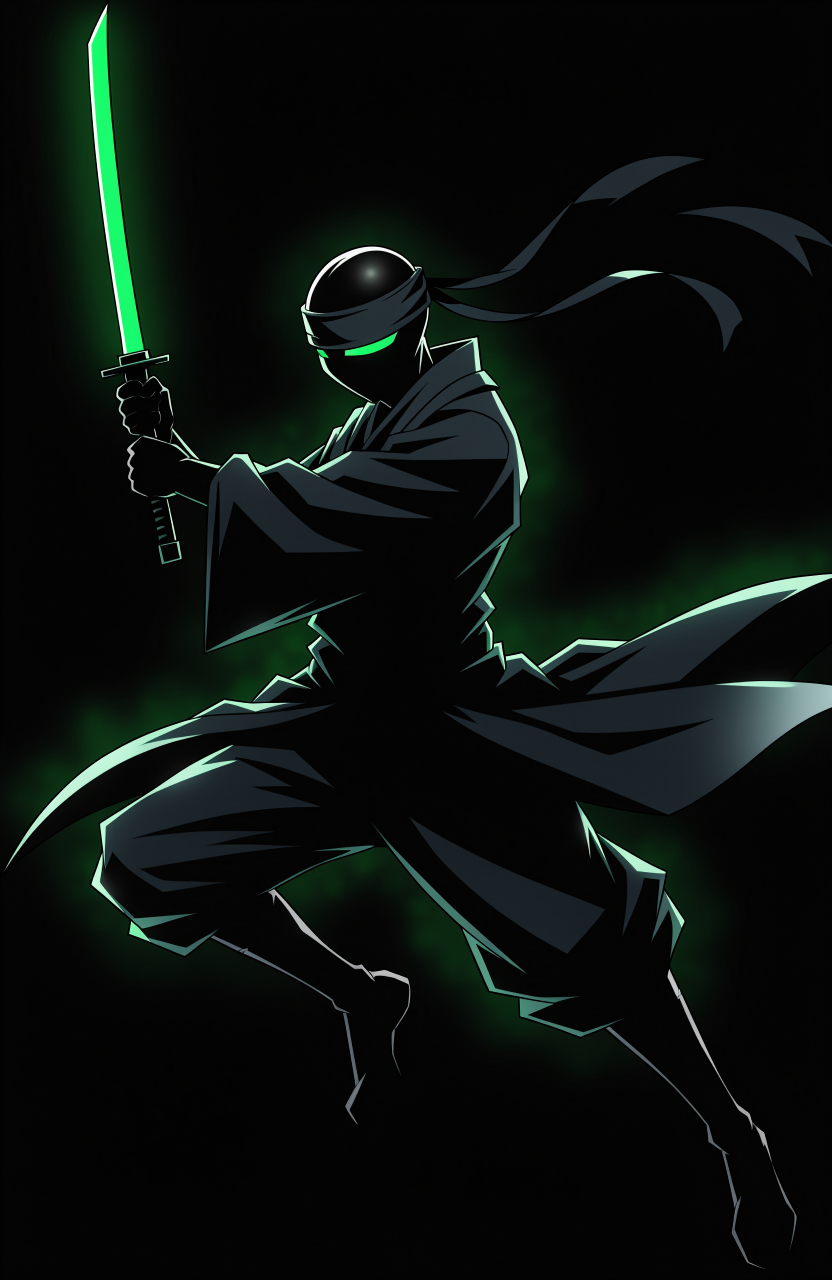
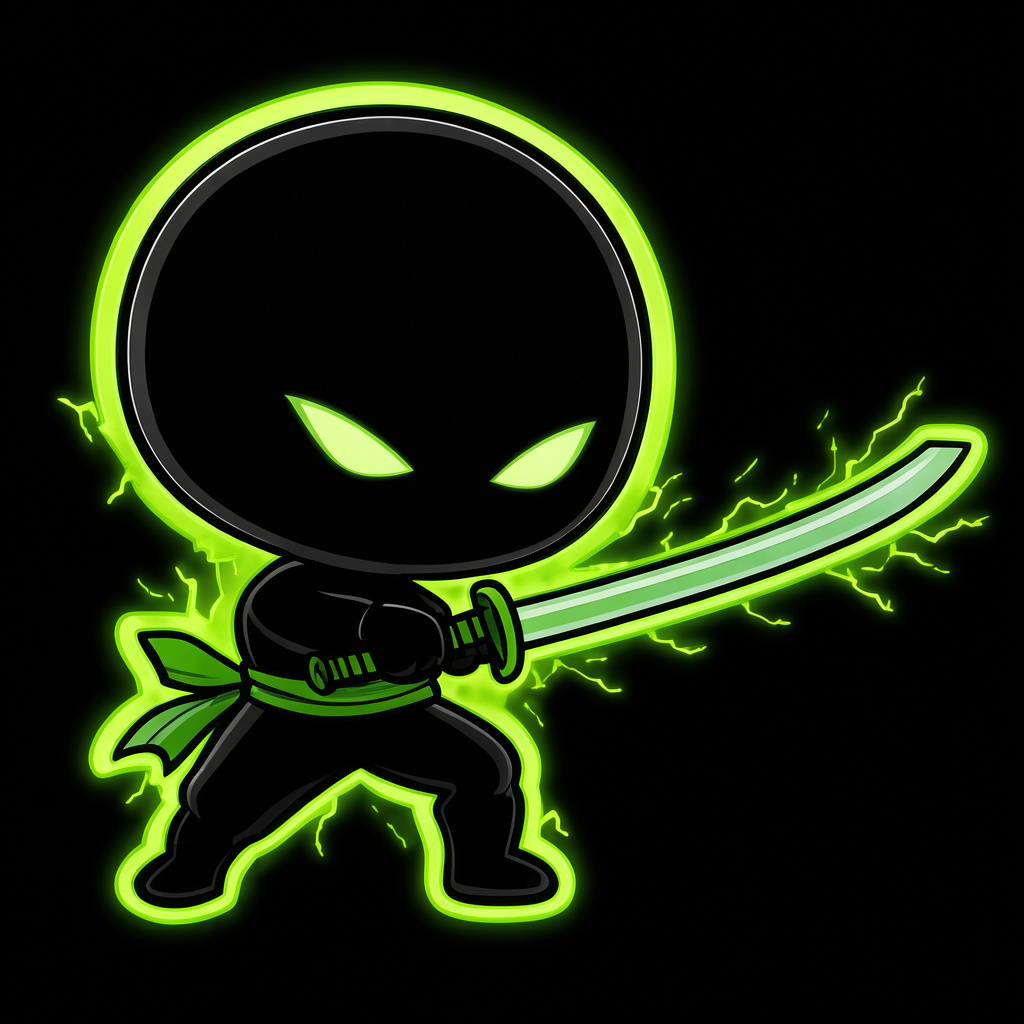
vs: sticker-man style per reference - chibi puppets, remove realistic dash/recoil
- New puppets: ninja-sensei-1/2 regenerated as sticker-man chibi (huge round head, glowing eye slits, neon-green outline + electric aura, katana baked in) matching reference sheet; sticker-hero-vs.jpg as reference hero fallback
- Deleted ninja-dash.png / ninja-recoil.png (realistic style clash) + their templates, SPRITES morph, setFighterSprite swap and is-morphing CSS
- Fixed mirror: new sprites already face each other (sensei-1 right, sensei-2 left) - removed scaleX(-1) on left fighter (3 places)
- Removed studio-tier depth-fog + anamorphic; kept neon slash trail canvas + shockwave (fits sticker glow)
- Chibi idle: squash-stretch breathing; ASSETS + route serve sticker-hero-vs.jpg

diff --git a/src/web/dojo/style.css b/src/web/dojo/style.css
@@ -5628,7 +5628,7 @@ html.motion-reduced .vs-comic.is-striking { animation: none; }
   mix-blend-mode: screen; user-select: none;
   filter: drop-shadow(0 14px 16px rgba(0, 18, 8, .65)) drop-shadow(0 0 26px rgba(53, 255, 133, .34));
 }
-.vs-fighter.left .vs-ninja { transform: scaleX(-1); }
+.vs-fighter.left .vs-ninja { /* sticker sprite already faces right — no mirror */ }
 .vs-fighter::before { /* energy aura */
   content: ''; position: absolute; inset: -18% -10% 0; z-index: 0;
   background: radial-gradient(ellipse at 50% 72%, #35ff8530, transparent 62%);
@@ -5643,7 +5643,7 @@ html.motion-reduced .vs-comic.is-striking { animation: none; }
 }
 .vs-fighter:not([data-pose]) .vs-ninja { animation: vs-breath 3.1s ease-in-out infinite alternate; }
 .vs-fighter.right:not([data-pose]) .vs-ninja { animation-delay: -1.55s; }
-@keyframes vs-breath { from { translate: 0 0; } to { translate: 0 -4px; } }
+@keyframes vs-breath { 0%,100% { translate: 0 0; scale: 1 1; } 50% { translate: 0 -5px; scale: 1.015 .985; } }
 html.motion-reduced .vs-fighter .vs-ninja { animation: none; }
 @media (prefers-reduced-motion: reduce) { .vs-fighter .vs-ninja { animation: none; } }
 
@@ -5932,7 +5932,7 @@ html.motion-reduced .vs-petals { display: none; }
   border-radius: 50% 50% 12% 12% / 8% 8% 92% 92%;
   background: radial-gradient(ellipse at 50% 80%, rgba(53,255,133,.18), transparent 62%);
 }
-.vs-fighter.left .vs-ninja { transform: scaleX(-1); }
+.vs-fighter.left .vs-ninja { /* sticker sprite already faces right — no mirror */ }
 .vs-fighter[data-pose=sweep] .vs-ninja { filter: drop-shadow(0 10px 12px rgba(0,0,0,.65)) drop-shadow(0 0 28px #7affaa) brightness(1.2); }
 .vs-fighter[data-pose=kick] .vs-ninja { filter: drop-shadow(0 10px 12px rgba(0,0,0,.65)) drop-shadow(0 0 22px #9effbd) brightness(1.15); }
 /* Green aura behind fighters matching reference */
@@ -6118,7 +6118,7 @@ html.motion-reduced .vs-petals { display: none; }
 .vs-fighter.right:not([data-pose]) .vs-ninja { animation-delay: -1.7s, -2.5s; }
 @keyframes vs-idle-breath { from { transform: scaleX(var(--mirror,1)) translateY(0) scaleY(1); } to { transform: scaleX(var(--mirror,1)) translateY(-3px) scaleY(1.015); } }
 @keyframes vs-idle-sway { 0%,100% { rotate: 0deg; } 50% { rotate: .6deg; } }
-.vs-fighter.left .vs-ninja { --mirror: -1; transform: scaleX(-1); }
+.vs-fighter.left .vs-ninja { --mirror: -1; /* no mirror: sprite faces opponent */ }
 .vs-fighter.right .vs-ninja { --mirror: 1; }
 
 /* --- Combat choreography: 12 principles applied --------------------------- */
@@ -6330,27 +6330,14 @@ html.motion-reduced .vs-petals { display: none; }
 #vs-score i.vs-emblem { filter: drop-shadow(0 3px 6px #000) drop-shadow(0 0 12px #ffd65c55); }
 
 
-/* === PROFESSIONAL STUDIO TIER 3: cinematic 3D + volumetric + sprite morph === */
+/* === Sticker-man stage FX: neon trail + shockwave (matches reference glow) === */
 .vs-trail-canvas {
   position: absolute; inset: 0; z-index: 5; pointer-events: none; width: 100%; height: 100%;
   mix-blend-mode: screen; opacity: .95;
 }
-.vs-depth-fog { position:absolute; inset:0; z-index:2; pointer-events:none; overflow:hidden; }
-.vs-depth-fog i {
-  position:absolute; left: -10%; right:-10%; height: 22%; bottom: 8%;
-  background: radial-gradient(ellipse at 50% 100%, rgba(80,255,160,.18), transparent 70%);
-  filter: blur(14px); animation: vs-fog-drift 14s ease-in-out infinite alternate;
-}
-.vs-depth-fog i:nth-child(2){ bottom: 12%; height:18%; opacity:.7; animation-delay:-5s; animation-duration:18s; }
-.vs-depth-fog i:nth-child(3){ bottom: 0%; height:26%; opacity:.5; animation-delay:-9s; }
-@keyframes vs-fog-drift { 0%{ transform: translateX(-4%) scaleX(1)} 100%{ transform: translateX(4%) scaleX(1.06)} }
 
-/* fighter sprite cross-fade morph */
-.vs-fighter .vs-ninja { will-change: transform, filter, opacity; transition: filter .18s ease, opacity .14s ease; backface-visibility: hidden; transform-style: preserve-3d; }
-.vs-fighter[data-pose="dash"] .vs-ninja { filter: brightness(1.18) contrast(1.12) drop-shadow(0 0 18px rgba(120,255,180,.5)) blur(0px); }
-.vs-fighter[data-pose="recoil"] .vs-ninja { filter: brightness(.98) contrast(1.08) hue-rotate(-2deg) drop-shadow(0 0 20px rgba(255,80,60,.22)); }
-.vs-fighter.is-morphing .vs-ninja { animation: vs-morph-flash 160ms ease-out; }
-@keyframes vs-morph-flash { 0%{ filter: brightness(1.35) blur(1px) } 100%{ filter: brightness(1) blur(0) } }
+/* sticker puppets: crisp chibi, neon glow baked in sprite + CSS halo */
+.vs-fighter .vs-ninja { will-change: transform, filter; backface-visibility: hidden; }
 
 /* depth: pagoda layers parallax on camera move */
 .vs-stage.is-shake .vs-bg { animation: none !important; }
@@ -6366,14 +6353,6 @@ html.motion-reduced .vs-petals { display: none; }
 .vs-stage.is-impact .vs-shockwave { animation: vs-shock 520ms cubic-bezier(.16,1,.28,1) both .08s; }
 @keyframes vs-shock { 0%{ opacity:0; transform: translate(-50%,-50%) scale(.15); border-width:4px } 18%{ opacity:1; transform: translate(-50%,-50%) scale(.62); border-width:3px } 100%{ opacity:0; transform: translate(-50%,-50%) scale(1.55); border-width:1px } }
 
-/* lens dirt + anamorphic streak on slash */
-.vs-stage.is-slash::after {
-  content:''; position:absolute; inset:0; z-index:7; pointer-events:none; opacity:0;
-  background: linear-gradient(90deg, transparent 46%, rgba(122,255,170,.18) 49%, rgba(255,255,255,.28) 50%, rgba(122,255,170,.18) 51%, transparent 54%);
-  filter: blur(.6px); mix-blend-mode: screen;
-}
-.vs-stage.is-slash::after { animation: vs-anamorphic 380ms ease-out both; }
-@keyframes vs-anamorphic { 0%{ opacity:0; transform: scaleX(.3) } 22%{ opacity:.85 } 100%{ opacity:0; transform: scaleX(1) } }
 
 /* score health glitch on hit */
 #vs-score b.is-hit { animation: vs-health-hit 420ms ease-out; }

diff --git a/src/web/dojo/index.html b/src/web/dojo/index.html
@@ -966,22 +966,17 @@
         </section>
       </div>
       <!-- Studio puppets: two distinct sculpts, cloth & blade glow baked, motion adds the life -->
+      <!-- Sticker-man puppets: chibi round-head ninjas, neon-green outline, katana baked in sprite -->
       <template id="vs-puppet">
-        <img class="vs-ninja" src="/miniapp/dojo/assets/ninja-sensei-1.png" data-base="sensei1" alt="" aria-hidden="true" draggable="false" onerror="this.src='/miniapp/dojo/assets/ninja-fighter.jpg'" />
+        <img class="vs-ninja" src="/miniapp/dojo/assets/ninja-sensei-1.png" data-base="sensei1" alt="" aria-hidden="true" draggable="false" onerror="this.onerror=null;this.src='/miniapp/dojo/assets/sticker-hero-vs.jpg'" />
       </template>
       <template id="vs-puppet-2">
-        <img class="vs-ninja" src="/miniapp/dojo/assets/ninja-sensei-2.png" data-base="sensei2" alt="" aria-hidden="true" draggable="false" onerror="this.src='/miniapp/dojo/assets/ninja-sensei-1.png'" />
-      </template>
-      <template id="vs-puppet-dash">
-        <img class="vs-ninja" src="/miniapp/dojo/assets/ninja-dash.png" alt="" aria-hidden="true" draggable="false" />
-      </template>
-      <template id="vs-puppet-recoil">
-        <img class="vs-ninja" src="/miniapp/dojo/assets/ninja-recoil.png" alt="" aria-hidden="true" draggable="false" />
+        <img class="vs-ninja" src="/miniapp/dojo/assets/ninja-sensei-2.png" data-base="sensei2" alt="" aria-hidden="true" draggable="false" onerror="this.onerror=null;this.src='/miniapp/dojo/assets/ninja-sensei-1.png'" />
       </template>
       <dialog id="vs-dialog" aria-labelledby="vs-title">
         <div class="vs-stage">
           <div class="vs-scene" aria-hidden="true">
-            <img class="vs-bg" src="/miniapp/dojo/assets/dojo-temple-bg.jpg" alt="" onerror="this.src='/miniapp/dojo/assets/dojo-arena.jpg'" />
+            <img class="vs-bg" src="/miniapp/dojo/assets/dojo-temple-bg.jpg" alt="" onerror="this.onerror=null;this.src='/miniapp/dojo/assets/sticker-hero-vs.jpg'" />
             <div class="vs-moon" aria-hidden="true"></div>
             <div class="vs-temple-silhouette" aria-hidden="true"></div>
             <div class="vs-glow"></div>
@@ -1016,7 +1011,6 @@
           <div class="vs-speedlines" aria-hidden="true"></div>
           <div class="vs-hitflash" aria-hidden="true"></div>
           <canvas class="vs-trail-canvas" width="640" height="360" aria-hidden="true"></canvas>
-          <div class="vs-depth-fog" aria-hidden="true"><i></i><i></i><i></i></div>
           <div class="vs-comic" aria-hidden="true">
             <div class="vs-fighter left" data-stance="guard"><span class="vs-trail" aria-hidden="true"></span><span class="vs-eye"></span></div>
             <div class="vs-fighter right" data-stance="guard"><span class="vs-trail" aria-hidden="true"></span><span class="vs-eye"></span></div>

diff --git a/src/web/dojo/miner.js b/src/web/dojo/miner.js
@@ -943,12 +943,10 @@
   $("session-ended").addEventListener("cancel", event => event.preventDefault());
   // The server owns stake, participants, score and both round actions.
   const vsDialog = $("vs-dialog");
-  // Studio sprites: 4 key sculpt variations, blended via src swap + cross-fade
+  // Sticker-man puppets: two chibi sprites, motion is CSS squash/stretch (no sprite swap)
   const SPRITES = {
     sensei1: "/miniapp/dojo/assets/ninja-sensei-1.png",
     sensei2: "/miniapp/dojo/assets/ninja-sensei-2.png",
-    dash: "/miniapp/dojo/assets/ninja-dash.png",
-    recoil: "/miniapp/dojo/assets/ninja-recoil.png",
   };
   // preload
   Object.values(SPRITES).forEach(u=>{ const im=new Image(); im.src=u; });
@@ -958,17 +956,7 @@
     fighter.append((src || $("vs-puppet")).content.cloneNode(true));
     fighter.dataset.base = fighter.classList.contains("left") ? "sensei1" : "sensei2";
   }
-  function setFighterSprite(fighter, key) {
-    const img = fighter.querySelector(".vs-ninja");
-    if (!img) return;
-    const url = SPRITES[key] || SPRITES[fighter.dataset.base];
-    if (img.src.includes(url)) return;
-    fighter.classList.add("is-morphing");
-    img.style.opacity = "0";
-    setTimeout(()=>{ img.src = url; img.style.opacity="1"; }, 60);
-    setTimeout(()=> fighter.classList.remove("is-morphing"), 220);
-  }
-  // trail canvas (volumetric neon streak)
+  // neon slash trail canvas (green energy streak, matches sticker glow)
   const vsTrailCanvas = vsDialog.querySelector(".vs-trail-canvas");
   const vsTrailCtx = vsTrailCanvas ? vsTrailCanvas.getContext("2d", {alpha:true}) : null;
   let trailRaf = 0;
@@ -1077,10 +1065,6 @@
       // Alternate choreography, keep manga posing: sweep = grounded horizontal slash, kick = aerial leap
       const attackerPose = (exchange.round + side) % 2 ? "sweep" : "kick";
       const defenderPose = strike.hit ? "recoil" : "slip";
-      // pro sprite morph - dash flash then strike, recoil on hit
-      setFighterSprite(actors[side], "dash");
-      setTimeout(()=> setFighterSprite(actors[side], actors[side].dataset.base), 220);
-      if (strike.hit) { setFighterSprite(actors[1-side], "recoil"); setTimeout(()=> setFighterSprite(actors[1-side], actors[1-side].dataset.base), 520); }
       actors[side].dataset.pose = attackerPose;
       actors[1-side].dataset.pose = defenderPose;
       actors[side].classList.add("is-dashing");

diff --git a/src/web/dojo_app.py b/src/web/dojo_app.py
@@ -34,8 +34,7 @@ ASSETS = {
     'assets/dojo-temple-bg.jpg',
     'assets/ninja-sensei-1.png',
     'assets/ninja-sensei-2.png',
-    'assets/ninja-recoil.png',
-    'assets/ninja-dash.png',
+    'assets/sticker-hero-vs.jpg',
     'assets/duel-court.webp',
     'assets/sensei.webp',
     'assets/loading-hero.webp',
@@ -413,7 +412,7 @@ def setup_dojo(app, container=None):
     app.router.add_get(
         '/miniapp/dojo/{asset:style\\.css|miner\\.js|motion\\.js}', page)
     app.router.add_get(
-        '/miniapp/dojo/assets/{asset:dojo-arena\\.jpg|ninja-fighter\\.jpg|dojo-temple-bg\\.jpg|ninja-sensei-1\\.png|ninja-sensei-2\\.png|duel-court\\.webp|sensei\\.webp|loading-hero\\.webp|senseicoin-wordmark\\.svg|unbounded-variable\\.woff2|golos-text-variable\\.woff2|dseg7-classic-regular\\.woff2|sensei-style-(?:400|700)\\.woff2}', page)
+        '/miniapp/dojo/assets/{asset:dojo-arena\\.jpg|ninja-fighter\\.jpg|dojo-temple-bg\\.jpg|ninja-sensei-1\\.png|ninja-sensei-2\\.png|sticker-hero-vs\\.jpg|duel-court\\.webp|sensei\\.webp|loading-hero\\.webp|senseicoin-wordmark\\.svg|unbounded-variable\\.woff2|golos-text-variable\\.woff2|dseg7-classic-regular\\.woff2|sensei-style-(?:400|700)\\.woff2}', page)
     app.router.add_post(
         '/miniapp/dojo/api/{action:admin_tasks|admin_save|admin_toggle|admin_grant|entry|state|start|circle|collect|tasks|task|upgrades|buy|bank|burn|referrals|vs_private_share|vs_share_result|vs_chats|vs_invite|vs_accept|vs_state|vs_publish|vs_commit|vs_move|ref_claim|share|daily|daily_claim|chest}',
         api)
